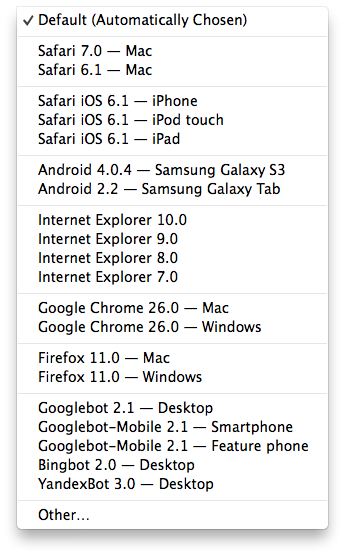
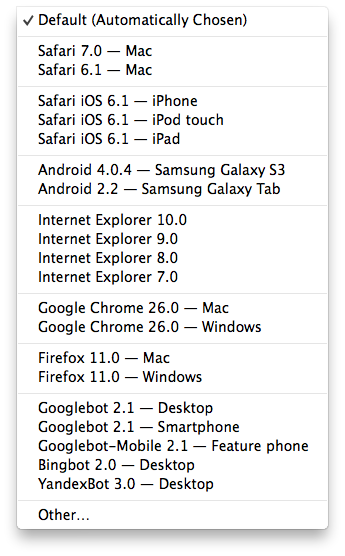
Googlebot updates.

Changed region(s): [[0.3188, 0.7338, 0.8406, 0.795]]

diff --git a/README.md b/README.md
@@ -8,7 +8,7 @@ Additional User Agents for Safari User Agent switcher menu
 ## Additional User Agents
 **Search Engine Bots:**
 * Googlebot/2.1
-* Googlebot-Mobile/2.1 &mdash; Smartphone
+* Googlebot/2.1 &mdash; Smartphone
 * Googlebot-Mobile/2.1 &mdash; Feature phone
 * Bingbot/2.0
 * YandexBot/3.0
